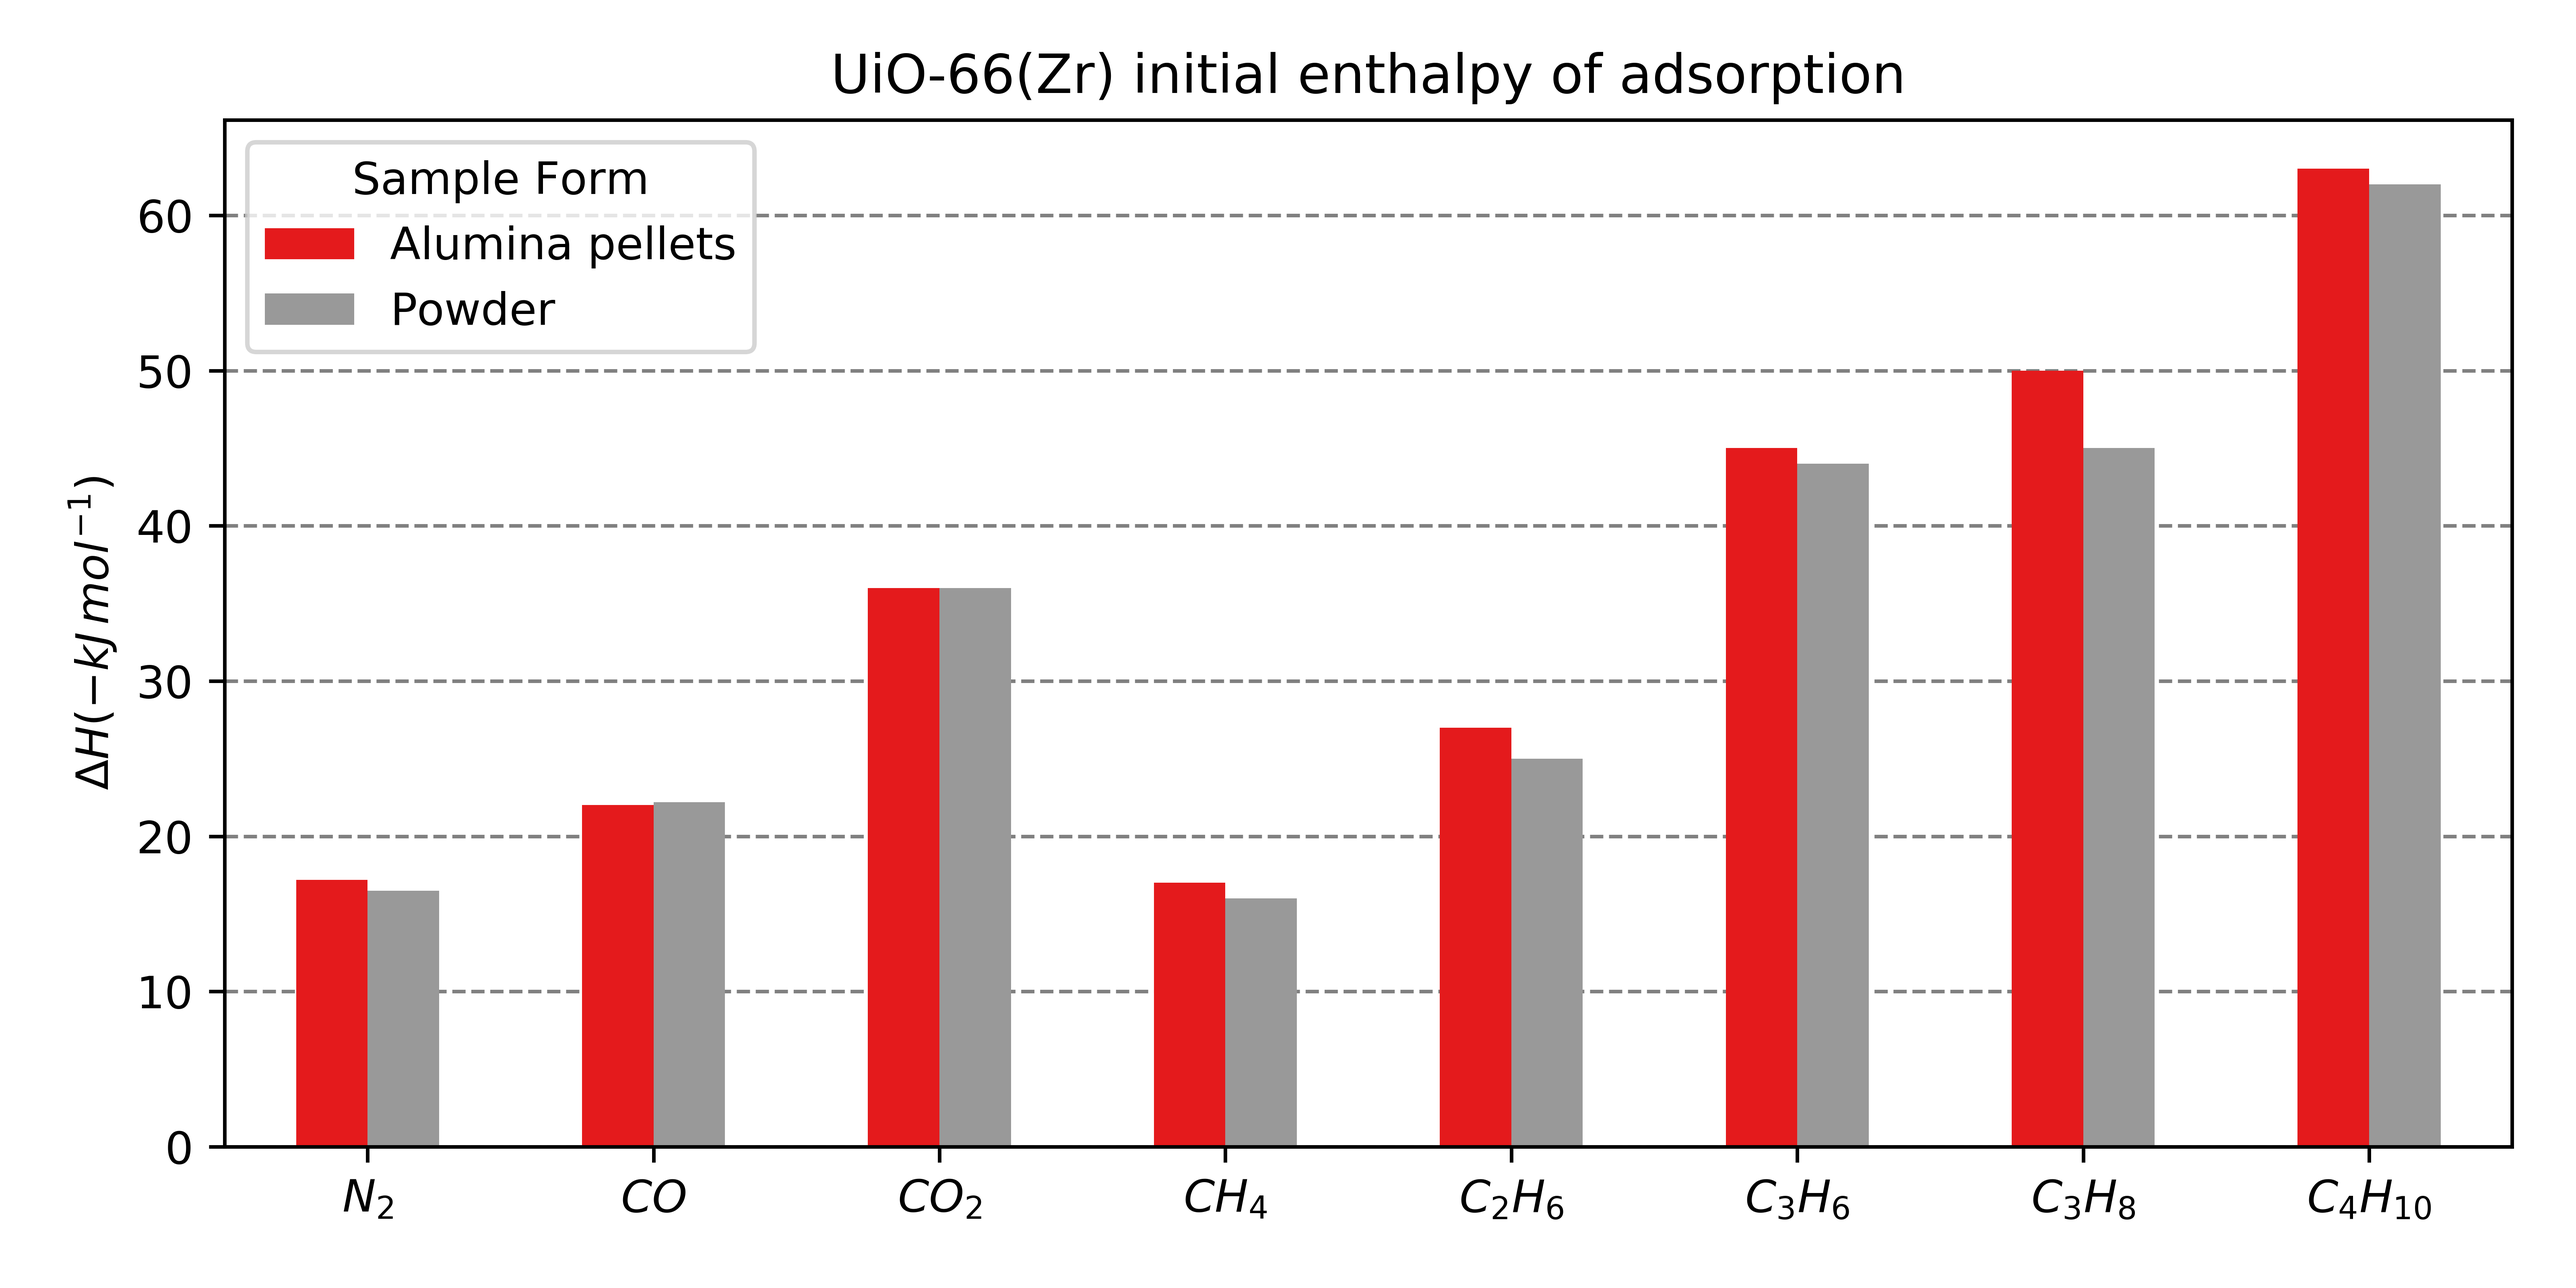
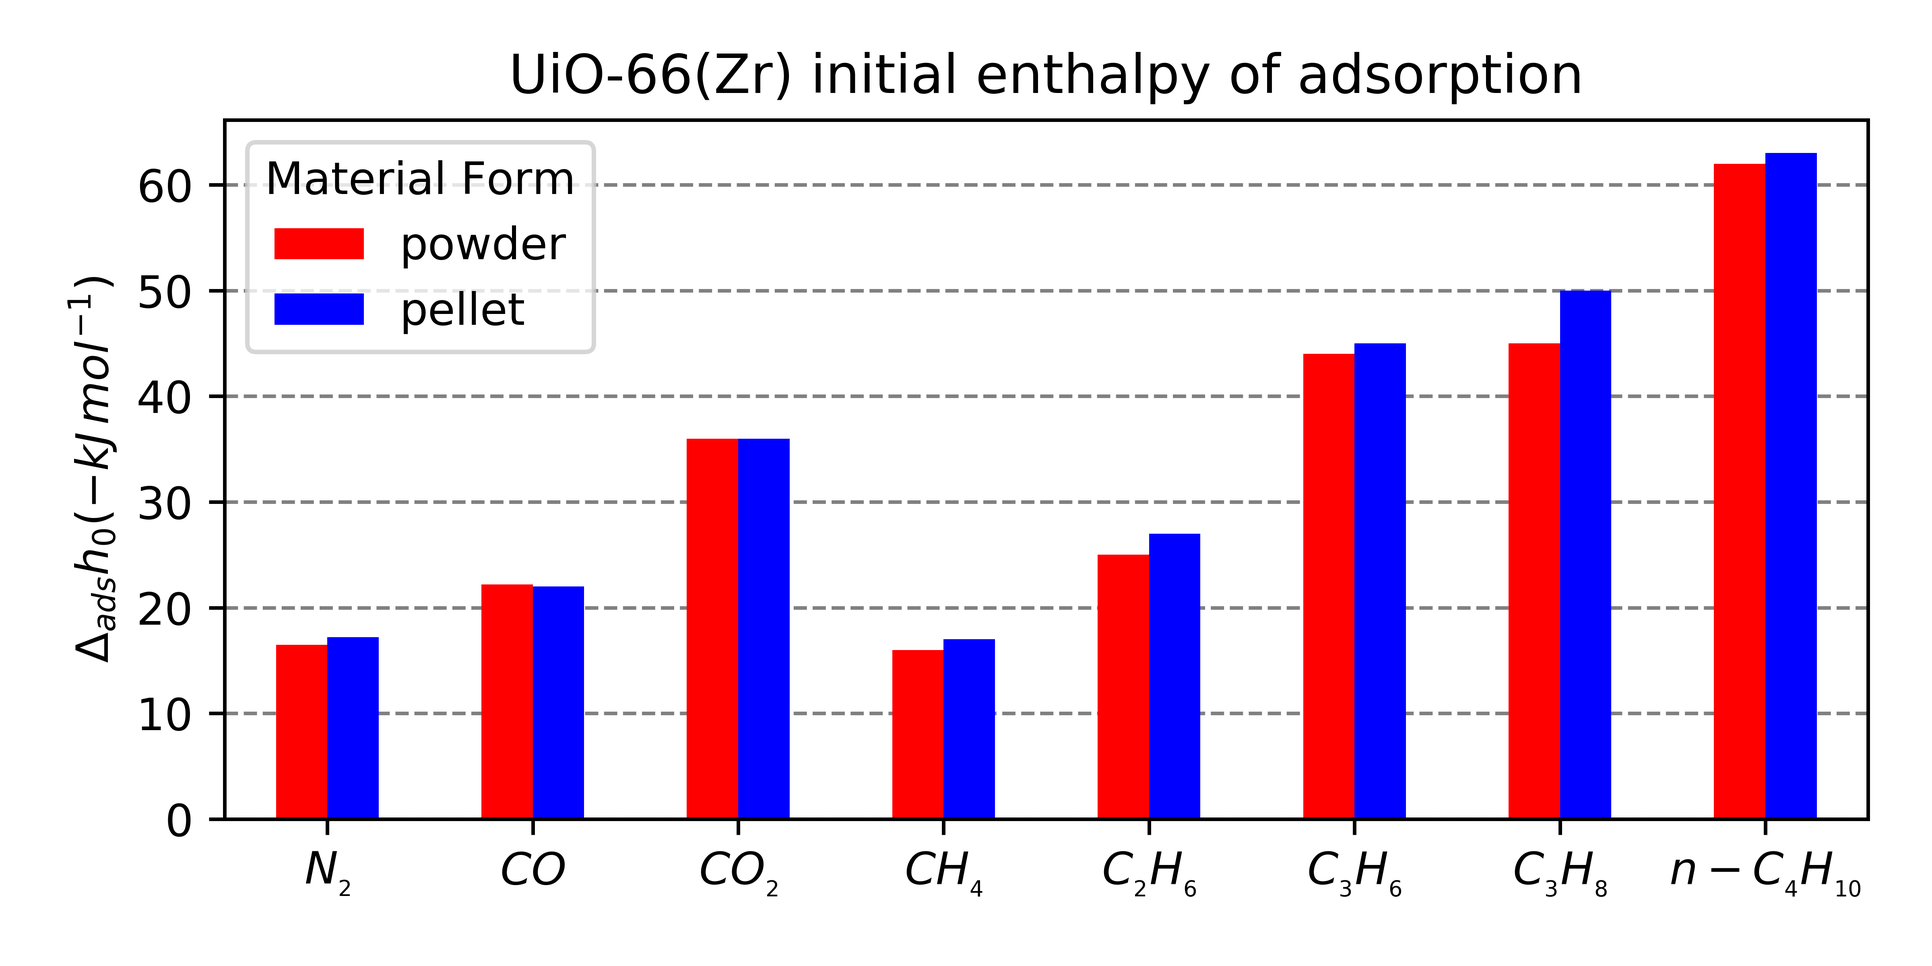
shaping images fixed

Changed region(s): [[0.0312, 0.0312, 0.9688, 0.9375]]

diff --git a/chapters/ch4/rd-calo-mil100.tex b/chapters/ch4/rd-calo-mil100.tex
@@ -31,9 +31,8 @@
 	\caption{\glspl{KPI} extracted from the MIL-100(Fe) adsorption dataset with
 		(a) logarithmic initial Henry constant (b) initial enthalpy of
 		adsorption and (c) change in adsorption maximum capacity from the powder
-		to the alumina shaped version on a mass and volume basis in red and grey
-		respectively}%
-	\label{shaping:fig:analysismil100}
+		to the alumina shaped version on a mass and volume basis.
+	}\label{shaping:fig:analysismil100}
 \end{figure}
 
 The enthalpy profiles on the MIL-100(Fe) powder are less homogenous

diff --git a/chapters/ch4/rd-calo-mil127.tex b/chapters/ch4/rd-calo-mil127.tex
@@ -65,8 +65,8 @@ which leads to the higher enthalpy values.
 		(a) logarithmic initial Henry constant (b) initial enthalpy of
         adsorption and (c) change in adsorption maximum capacity from 
         the powder to the alumina shaped version on a mass and volume 
-        basis in red and grey respectively}%
-	\label{shaping:fig:analysismil127}
+		basis.
+	}\label{shaping:fig:analysismil127}
 \end{figure}
 
 When comparing the powder and the pellet variant with respect to

diff --git a/chapters/ch4/rd-calo-uio66.tex b/chapters/ch4/rd-calo-uio66.tex
@@ -42,8 +42,8 @@ respectively.
 		(a) logarithmic initial Henry constant (b) initial enthalpy of
         adsorption and (c) change in adsorption maximum capacity from 
         the powder to the alumina shaped version on a mass and volume 
-        basis in red and grey respectively}%
-	\label{shaping:fig:analysisuio66}
+		basis.
+	}\label{shaping:fig:analysisuio66}
 \end{figure}
 
 \begin{figure}[htb]
